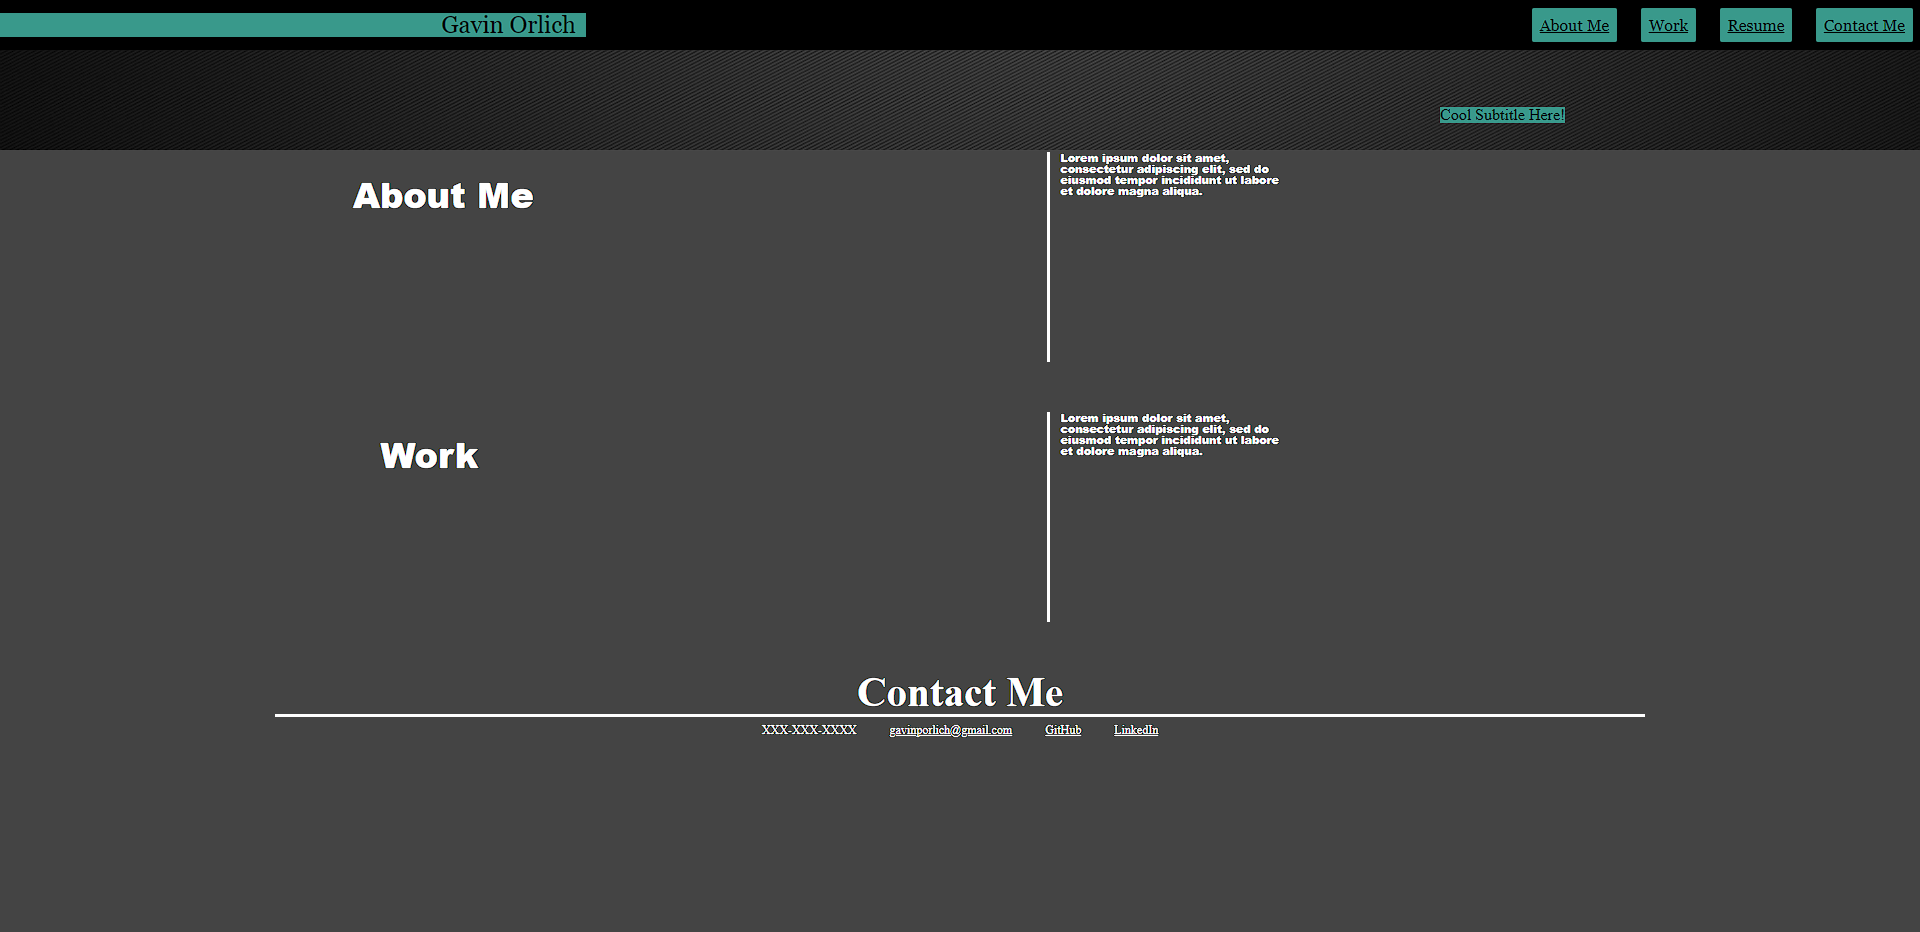
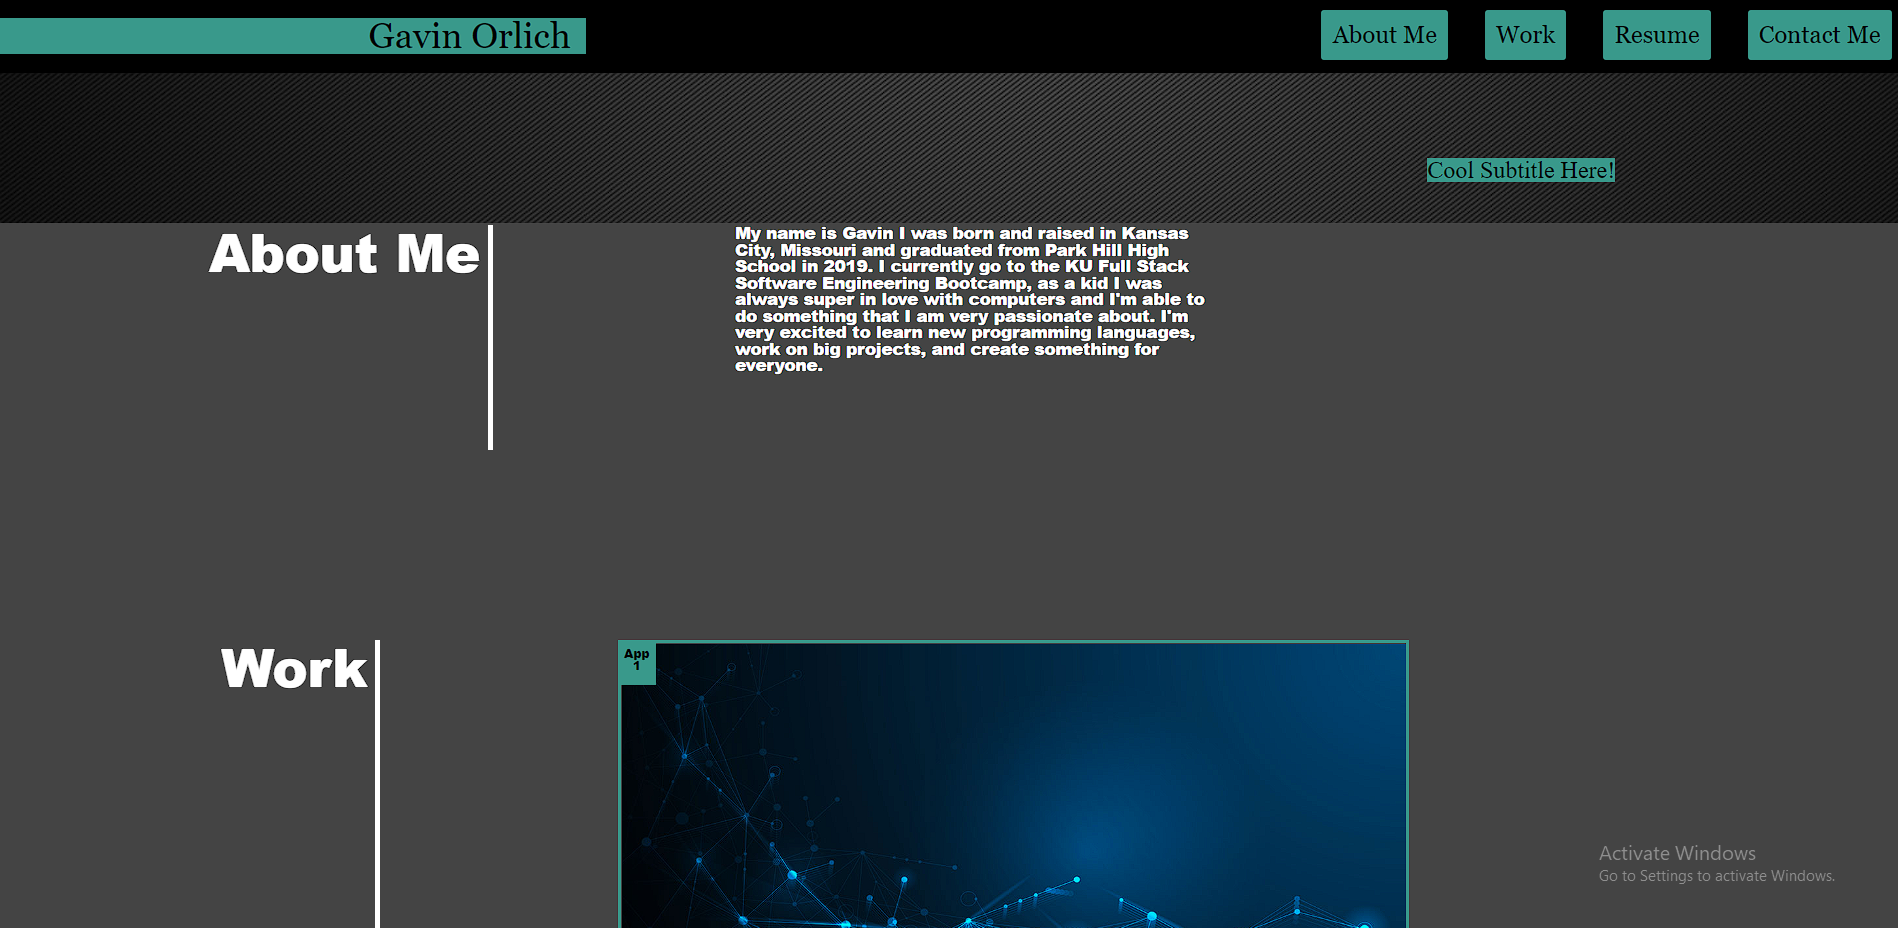
Third night work/README.md update

diff --git a/index.html b/index.html
@@ -14,41 +14,52 @@
         <h1>Gavin Orlich</h1>
         <nav>
             <ul>
-                <li><a href="#abMeSec" class="navColor">About Me</a></li>
-                <li><a href="#workSec" class="navColor">Work</a></li>
-                <li><a href="#" class="navColor">Resume</a></li>
-                <li><a href="#contactMeSec" class="navColor">Contact Me</a></li>
+                <li><a href="#abMeSec" class="navItem">About Me</a></li>
+                <li><a href="#workSec" class="navItem">Work</a></li>
+                <li><a href="#" class="navItem">Resume</a></li>
+                <li><a href="#contactMeSec" class="navItem">Contact Me</a></li>
             </ul>
         </nav>   
     </header>
-    
+<!-- DIVIDER IMAGE -->
     <figure>
         <img src="./assets/images/divider.png" alt ="Black Striped Divider" id = "dividerImage">
-        <p>Cool Subtitle Here!</p>
+        <p id="imgSub">Cool Subtitle Here!</p>
     </figure>
 
     <section id="abMeSec">
         <h2>About Me</h2>
         <p>
-            Lorem ipsum dolor sit amet, consectetur adipiscing elit, sed do eiusmod tempor incididunt ut labore et dolore magna aliqua.
+            My name is Gavin I was born and raised in Kansas City, Missouri and graduated from Park Hill High School in 2019. I currently go to the KU Full Stack Software Engineering Bootcamp, as a kid I was always super in love with computers and I'm able to do something that I am very passionate about. I'm very excited to learn new programming languages, work on big projects, and create something for everyone.
         </p>
     </section>
     <section id="workSec">
         <h2>Work</h2>
-        <p>
-            Lorem ipsum dolor sit amet, consectetur adipiscing elit, sed do eiusmod tempor incididunt ut labore et dolore magna aliqua.
-        </p>
+        <figure id="workImages">
+            <div id="mainWork">
+                <p>App 1</p>
+                <img src="./assets/images/workimage.png" alt="Blue Tech-Like Image">
+            </div>
+            <div id="secWork">
+                <p>App 2</p>
+                <img src="./assets/images/workimage.png" alt="Blue Tech-Like Image">
+                <p>App 3</p>
+                <img src="./assets/images/workimage.png" alt="Blue Tech-Like Image">
+            </div>
+        </figure>
+
     </section>
 
     <footer id="contactMeSec">
         
         <h2>Contact Me</h2>
-        <div id="blackBar"></div>
+        <!-- DIV FOR BAR UNDERNEATH -->
+        <div id="whiteBar"></div>
         <ul>
             <li>XXX-XXX-XXXX</li>
-            <li><a href="#">gavinporlich@gmail.com</a></li>
-            <li><a href="#">GitHub</a></li>
-            <li><a href="#">LinkedIn</a></li>
+            <li>gavinporlich@gmail.com</li>
+            <li><a href="https://github.com/GavPO" target="_blank">GitHub</a></li>
+            <li><a href="https://www.linkedin.com/in/gavin-o-254622240/" target="_blank">LinkedIn</a></li>
         </ul>
     </footer>
 </body>

diff --git a/assets/style.css b/assets/style.css
@@ -10,9 +10,11 @@
     font-family: var(--mainfont);
 }
 
+
 body header {
     font-family: Georgia, var(--mainfont);
     display: flex;
+    flex: auto;
     width: 100%;
     background-color: black;
     height: 100px;
@@ -51,11 +53,12 @@ body header nav ul li{
     border-radius: 4px;
 }
 
-.navColor {
+.navItem {
     color: var(--secondaryc);
+    text-decoration: none;
 }
 
-body figure p {
+#imgSub {
     background-color: var(--thirdc);
     position: absolute;
     display: block;
@@ -76,25 +79,66 @@ body section {
     flex-flow: row wrap;
     justify-content: space-around;
     color: white;
+    padding-bottom: 10%;
 }
 
 body section h2 {
+    border-right: var(--whiteborder);
     margin-left: 5%;
     display: inline;
     font-size: 70px;
     font-weight: 800;
-    padding: 50px 0px 400px 0px;
+    padding-right: 10px;
 }
 
 body section p {
-    width: 450px;
+    width: 650px;
+    height: 200px;
     display: inline;
     font-weight: 400;
     font-size: 22px;
-    border-left: var(--whiteborder);
     padding-left: 20px;
     margin-right: 700px;
     margin-bottom: 100px;
+}
+
+#workSec {
+    width: 100%;
+    display: inline-flex;
+    flex-flow: row nowrap;
+}
+
+#workImages p {
+    padding: 10px 0 0 0;
+    font-size: 16px;
+    text-align: center;
+    position: absolute;
+    background-color: var(--thirdc);
+    color: var(--secondaryc);
+    width: 50px;
+    height: 50px;
+}
+
+#workSec figure div{
+    padding-left: 10%;
+}
+
+#workSec h2 {
+    padding-left: 168px;
+}
+
+#workImages {
+    margin-left: 5%;
+}
+
+#mainWork img {
+    width: 61%;
+    border: 5px solid var(--thirdc);
+}
+
+#secWork img {
+    width: 30%;
+    border: 5px solid var(--thirdc);
 }
 
 #abMeSec p {
@@ -114,7 +158,7 @@ body section p {
     text-align: center;
 }
 
-#blackBar {
+#whiteBar {
     border-bottom: var(--whiteborder);
     margin: 0 550px;
 }
@@ -137,3 +181,11 @@ body section p {
     width: 100%;
     height: 200px;
 }
+
+#workImages img:hover {
+   border: 5px solid cyan;
+}
+
+#workImages img:active {
+    border: 5px solid red;
+ }

diff --git a/README.md b/README.md
@@ -2,32 +2,26 @@
 
 ## Description
 
-Provide a short description explaining the what, why, and how of your project. Use the following questions as a guide:
-
-- What was your motivation?
-- Why did you build this project? (Note: the answer is not "Because it was a homework assignment.")
-- What problem does it solve?
-- What did you learn?
+This portfolio is designed to be able to showcase my projects and give a little more information about myself for future employers to look at. This project does a very good job of showing you how complex and important css can be. This project also helped me understand the box-model a little more and see kind of what I was manipulating.
 
 
 ## Usage
 
-Provide instructions and examples for use. Include screenshots as needed.
-
-To add a screenshot, create an `assets/images` folder in your repository and upload your screenshot to it. Then, using the relative filepath, add it to your README using the following syntax:
+Use the Navbar at the top to navigate through the site and click the links on the bottom the pull them up in a new page!
 
 ## Screenshot
 
 !["Screenshot of Wesbite"](./assets/images/screenshot.PNG)
 
-## Credits
-
-List your collaborators, if any, with links to their GitHub profiles.
-
-If you used any third-party assets that require attribution, list the creators with links to their primary web presence in this section.
-
-If you followed tutorials, include links to those here as well.
 
 ## License
 
-The last section of a high-quality README file is the license. This lets other developers know what they can and cannot do with your project. If you need help choosing a license, refer to [https://choosealicense.com/](https://choosealicense.com/).
+MIT License
+
+Copyright (c) [2022] [GavinOrlich]
+
+Permission is hereby granted, free of charge, to any person obtaining a copy of this software and associated documentation files (the "Software"), to deal in the Software without restriction, including without limitation the rights to use, copy, modify, merge, publish, distribute, sublicense, and/or sell copies of the Software, and to permit persons to whom the Software is furnished to do so, subject to the following conditions:
+
+The above copyright notice and this permission notice shall be included in all copies or substantial portions of the Software.
+
+THE SOFTWARE IS PROVIDED "AS IS", WITHOUT WARRANTY OF ANY KIND, EXPRESS OR IMPLIED, INCLUDING BUT NOT LIMITED TO THE WARRANTIES OF MERCHANTABILITY, FITNESS FOR A PARTICULAR PURPOSE AND NONINFRINGEMENT. IN NO EVENT SHALL THE AUTHORS OR COPYRIGHT HOLDERS BE LIABLE FOR ANY CLAIM, DAMAGES OR OTHER LIABILITY, WHETHER IN AN ACTION OF CONTRACT, TORT OR OTHERWISE, ARISING FROM, OUT OF OR IN CONNECTION WITH THE SOFTWARE OR THE USE OR OTHER DEALINGS IN THE SOFTWARE.
